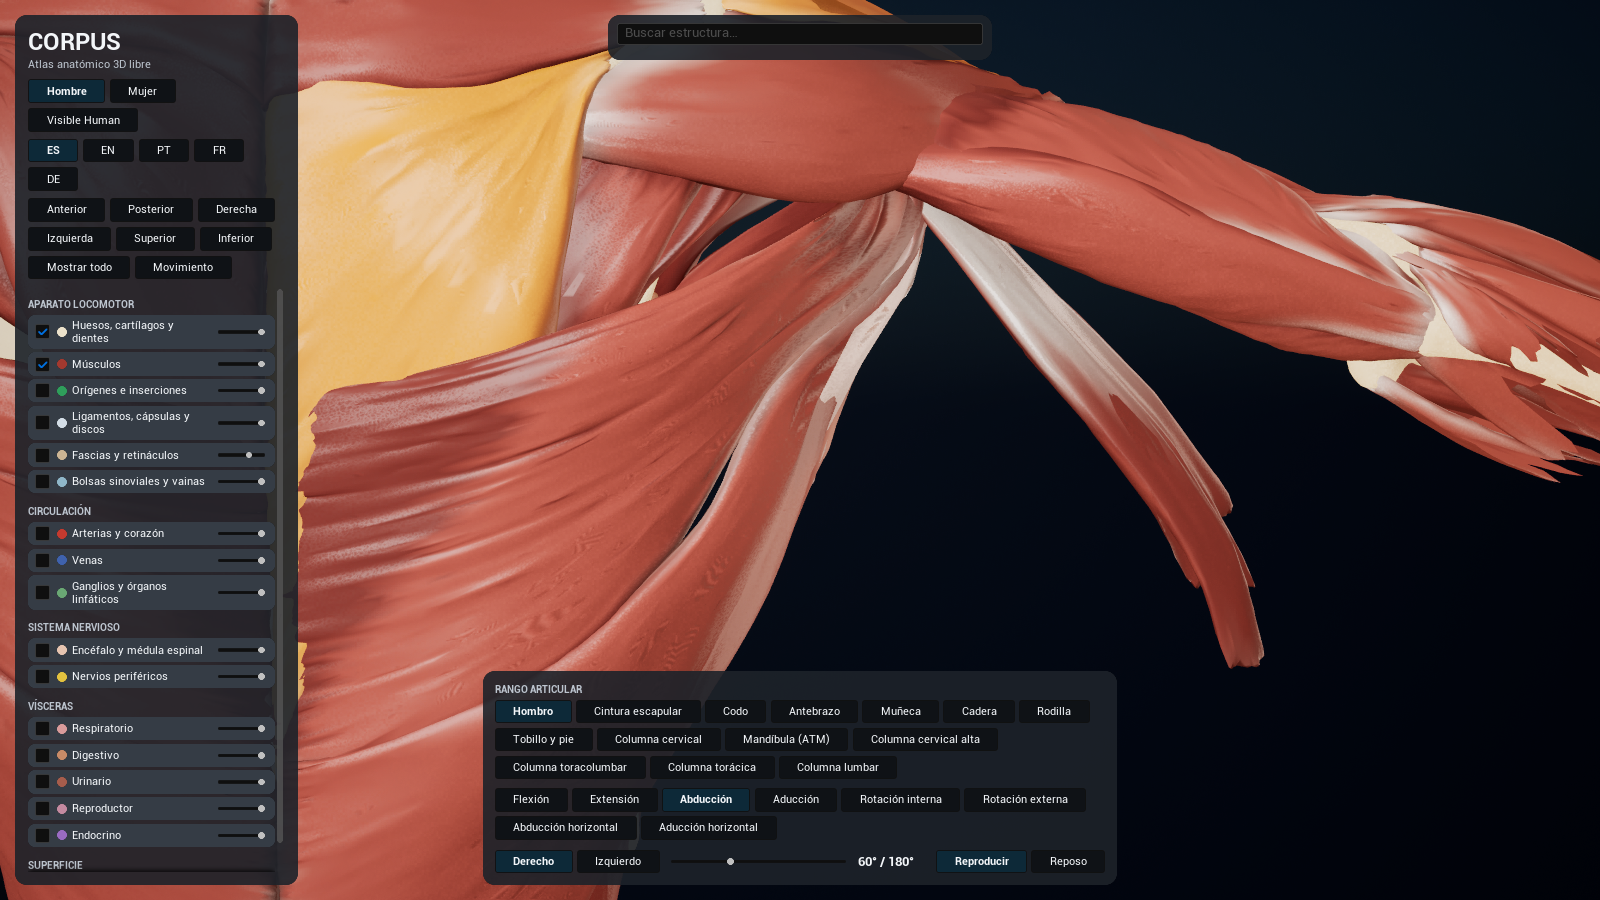
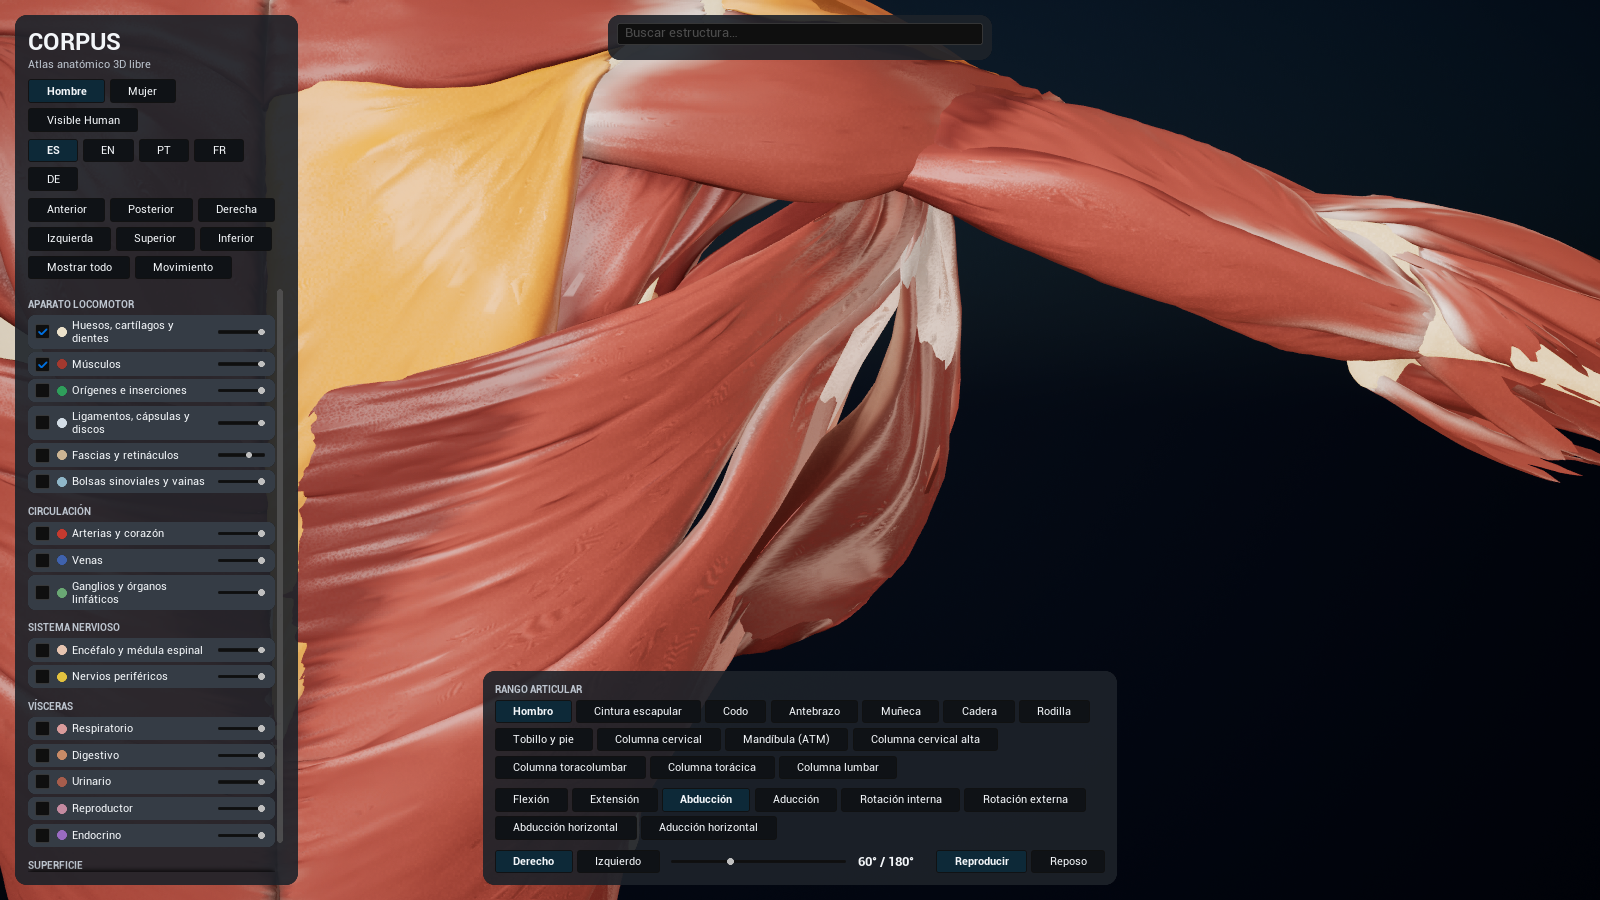
Unreal movimiento: pesos por fasciculo, escapula con el brazo colgando y visor en Blender
Cada musculo son varias islas: se ancla cada una por separado (desaparece el tendon suelto del dorsal).
Los movimientos de la cintura escapular ya no abren el brazo. postura.js, blender/posar.js y
blender/simular_musculo.py dan una imagen de cualquier postura en un segundo.

Changed region(s): [[0.4375, 0.2178, 0.8125, 0.7467]]

diff --git a/tools/unreal/postura.js b/tools/unreal/postura.js
@@ -1,0 +1,68 @@
+/* Corpus Atlas → Unreal: la cuenta del nodo «Postura» del material (HLSL_POSTURA de corpus_importar.py) en la CPU,
+   como módulo. La usan simular.js (medir pliegues) y blender/posar.js (dar a Blender huesos y músculos ya colocados).
+   Si se cambia el HLSL, hay que cambiar esto igual. */
+'use strict';
+const fs = require('fs'), path = require('path');
+const TX = require('./torax.js');
+const IMP = path.resolve(__dirname, '..', '..', 'unreal', 'CorpusAtlas', 'Importar');
+const M = JSON.parse(fs.readFileSync(path.join(IMP, 'datos', 'movimiento.json'), 'utf8'));
+const rig = JSON.parse(fs.readFileSync(path.join(IMP, 'datos', 'rig.json'), 'utf8'));
+const NA = M.articulaciones.length, arts = M.articulaciones.map(a => a.id), TC = M.torax;
+const cross = (a, c) => [a[1] * c[2] - a[2] * c[1], a[2] * c[0] - a[0] * c[2], a[0] * c[1] - a[1] * c[0]], dot = (a, c) => a[0] * c[0] + a[1] * c[1] + a[2] * c[2];
+const gira = (p, pv, e, an) => { const s = Math.sin(an), c = Math.cos(an), d = [p[0] - pv[0], p[1] - pv[1], p[2] - pv[2]], cr = cross(e, d), dt = dot(e, d); return [0, 1, 2].map(i => d[i] * c + cr[i] * s + e[i] * dt * (1 - c) + pv[i]); };
+const sat = x => Math.max(0, Math.min(1, x)), ss = (a, c, x) => { const t = sat((x - a) / (c - a)); return t * t * (3 - 2 * t); };
+
+const GLB = {};
+function capa(nombre) {
+  if (GLB[nombre]) return GLB[nombre];
+  const b = fs.readFileSync(path.join(IMP, nombre + '.glb')), lj = b.readUInt32LE(12), g = JSON.parse(b.slice(20, 20 + lj)), bin = b.slice(20 + lj + 8);
+  const acc = i => { const a = g.accessors[i], v = g.bufferViews[a.bufferView], nc = { SCALAR: 1, VEC2: 2, VEC3: 3, VEC4: 4 }[a.type], o = bin.byteOffset + (v.byteOffset || 0) + (a.byteOffset || 0);
+    if (a.componentType === 5126) return new Float32Array(bin.buffer.slice(o, o + a.count * nc * 4)); if (a.componentType === 5125) return new Uint32Array(bin.buffer.slice(o, o + a.count * 4)); return new Uint16Array(bin.buffer.slice(o, o + a.count * 2)); };
+  const porId = {}; for (const n of g.nodes) if (n.mesh !== undefined) porId[n.name] = n;
+  return GLB[nombre] = { g, acc, porId };
+}
+/* pieza: posiciones de reposo, índices, pesos por hueco y datos por pieza (los mismos que ACorpusCuerpo pone en los datos primitivos) */
+function pieza(nombreCapa, id) {
+  const C = capa(nombreCapa), nodo = C.porId[id]; if (!nodo) return null;
+  const cuerpo = nombreCapa.split('/')[0], pr = C.g.meshes[nodo.mesh].primitives[0];
+  const P = C.acc(pr.attributes.POSITION), I = C.acc(pr.indices), U = [0, 1, 2, 3].map(c => pr.attributes['TEXCOORD_' + c] !== undefined ? C.acc(pr.attributes['TEXCOORD_' + c]) : new Float32Array(P.length / 3 * 2));
+  const en = (nodo.extras || {}).en || '', lado = (nodo.extras || {}).lado || '';
+  return { id, en, lado, P, I, U, nv: P.length / 3, js: ((M.piezas[cuerpo] || {})[id] || []).concat([0, 0, 0, 0, 0, 0, 0, 0, 0]).slice(0, 9),
+    hug: ((M.abrazo || {})[cuerpo] || []).includes(id) ? (/^Latissimus/.test(en) ? 2 : 1) : 0, ins: ((M.insercion || {})[cuerpo] || {})[id] || null };
+}
+/* articulaciones de una postura de la tabla ROM */
+function articulaciones(rom, mi, lado, grados) {
+  const J = arts.map((_, i) => ({ e: [0, 0, 0], a: 0, t: [0, 0, 0], p: M.articulaciones[i].pivote }));
+  if (rom) { const mv = M.rom.find(r => r.id === rom).movs[+mi], F = mv[lado] || mv.R, x = Math.min(+grados, mv.max) / mv.paso, i0 = Math.min(Math.floor(x), F.length - 1), fr = F[Math.min(Math.round(x), F.length - 1)];
+    for (let k = 0; k < fr.length; k += 8) { const j = J[fr[k]]; j.e = [fr[k + 1], fr[k + 2], fr[k + 3]]; j.a = fr[k + 4]; j.t = [fr[k + 5], fr[k + 6], fr[k + 7]]; } }
+  return J;
+}
+/* un vértice: opciones {abrazo:false} o {cubrir:false} apagan esos pasos */
+function vertice(pz, J, g0, ws, op) {
+  op = op || {}; let gg = g0.slice(), hecho = false, wl = 0, ip = pz.ins ? pz.ins.slice() : null; const fibra = !!ip, Sd = g0[0] < 0 ? 'R' : 'L';
+  for (let k = 0; k < 9; k++) {
+    const jv = pz.js[k]; let code = Math.round(Math.abs(jv)); const tronco = jv === 0 || (code & 31) >= NA - 2;
+    if (!hecho && tronco) { hecho = true;
+      if (pz.hug > 0 && wl > 0.0005 && op.abrazo !== false) {
+        const k0 = TX.k(TC, g0), R1 = TX.radio(TC, gg), k1 = Math.hypot(gg[0], gg[2] - TC.zc) / R1, libre = sat((wl - 0.25) / 0.6), l4 = libre ** 4;
+        const kmax = k0 + (0.006 + libre * libre * 0.07 + libre * 0.03 + l4 * l4 * 1.5) / R1, kmin = k0 < 1 ? k0 : 1 + (k0 - 1) * 0.6;
+        const kt = Math.max(kmin, k1 > k0 ? k0 + (kmax - k0) * Math.tanh((k1 - k0) / (kmax - k0)) : k1), hy = (gg[1] - TC.y0) / TC.dy, val = sat(hy) * sat(TC.nh - 1 - hy) * sat(pz.hug), s = 1 + (kt / Math.max(k1, 1e-4) - 1) * val;
+        gg[0] *= s; gg[2] = TC.zc + (gg[2] - TC.zc) * s;
+        if (pz.hug > 1.5 && op.cubrir !== false) { const ja = J[arts.indexOf('acr_' + Sd)], jc = J[arts.indexOf('sc_' + Sd)]; let bb = rig['scapBot_' + Sd].slice(); bb = gira(bb, ja.p, ja.e, ja.a); bb = gira(bb, jc.p, jc.e, jc.a);
+          const kb = TX.k(TC, bb) + 0.004 / TX.radio(TC, bb), kg = TX.k(TC, gg), cerca = 1 - ss(0.04, 0.20, Math.hypot(gg[0] - bb[0], gg[1] - bb[1], gg[2] - bb[2])), s2 = (kg + cerca * Math.max(0, kb - 1.0)) / Math.max(kg, 1e-4);
+          gg[0] *= s2; gg[2] = TC.zc + (gg[2] - TC.zc) * s2; } } }
+    if (jv === 0) break;
+    const w = sat(ws[k]); if (k === 0 && !tronco) wl = w; const lin = jv < 0;
+    for (let t = 0; t < 3; t++) { const j = (code & 31) - 1; code >>= 5; if (j < 0) break; const o = J[j]; if (!o.a && !o.t.some(x => x)) continue;
+      if (fibra && lin) { const ri = gira(ip, o.p, o.e, o.a); if (w >= 0.0005) { const r = gira(gg, o.p, o.e, o.a), q = w * w; gg = gg.map((x, i) => { const tx = x + w * (ri[i] - ip[i]); return tx + (r[i] - tx) * q; }); } ip = ri; }
+      else if (w >= 0.0005) { const r = gira(gg, o.p, o.e, lin ? o.a : o.a * w); gg = lin ? gg.map((x, i) => x + (r[i] - x) * w) : r; }
+      if (w < 0.0005) continue; gg = gg.map((x, i) => x + o.t[i] * w); }
+  }
+  return gg;
+}
+function deformar(pz, J, op) {
+  const D = new Float32Array(pz.nv * 3);
+  for (let i = 0; i < pz.nv; i++) { const ws = [pz.U[0][i * 2], pz.U[0][i * 2 + 1], pz.U[1][i * 2], pz.U[1][i * 2 + 1], pz.U[2][i * 2], pz.U[2][i * 2 + 1], pz.U[3][i * 2], pz.U[3][i * 2 + 1], 0]; D.set(vertice(pz, J, [pz.P[i * 3], pz.P[i * 3 + 1], pz.P[i * 3 + 2]], ws, op), i * 3); }
+  return D;
+}
+module.exports = { IMP, M, rig, TC, TX, arts, pieza, capa, articulaciones, deformar, gira };

diff --git a/tools/unreal/blender/posar.js b/tools/unreal/blender/posar.js
@@ -1,0 +1,48 @@
+#!/usr/bin/env node
+/* Corpus Atlas → Blender: prepara una simulación de músculo.
+   Uso: node tools/unreal/blender/posar.js <id del músculo> <rom> <nº mov> <R|L> <grados> [paso=10] [salida]
+   Ej.: node tools/unreal/blender/posar.js n1610 hombro 2 R 150
+   Escribe en unreal/CorpusAtlas/Saved/sim/<id>_<rom><mov><lado>/ :
+     info.json            pasos (grados), nº de vértices, piezas del colisionador
+     musculo_idx.u32      triángulos del músculo          musculo_w.f32   fracción de fibra (0 origen … 1 inserción)
+     musculo_<k>.f32      el músculo como lo deja el material de Unreal en el paso k (guía y posición de los anclajes)
+     colision_idx.u32     triángulos de huesos y músculos profundos fundidos en una malla
+     colision_<k>.f32     esa malla en el paso k
+   Todo en glTF (metros, Y arriba), como los GLB de Importar/. */
+'use strict';
+const fs = require('fs'), path = require('path');
+const PO = require('../postura.js');
+const [id, rom, mi, lado, grados, pasoArg, salArg] = process.argv.slice(2);
+const paso = +pasoArg || 10, LD = lado === 'R' ? 'derecho' : 'izquierdo';
+const dir = salArg || path.join(PO.IMP, '..', 'Saved', 'sim', `${id.includes(',') ? 'grupo' : id}_${rom}${mi}${lado}`);
+fs.mkdirSync(dir, { recursive: true });
+/* varios músculos separados por comas se funden en una malla (para verlos juntos; la simulación es de uno) */
+const ids = id.split(','), partes = ids.map(i => PO.pieza('hombre/muscular', i)); if (partes.some(p => !p)) { console.error('no está ' + id); process.exit(1); }
+const mus = partes[0];
+
+/* colisionador: huesos del tórax y de la cintura escapular del lado, y los músculos profundos sobre los que resbala */
+const HUESO = /\brib\b|^Costal cartilage|sternum|Xiphoid|^Vertebra [TL]\d+|^Scapula$|^Humerus$|^Clavicle$|^Hip bone$|^Sacrum$/i;
+const PROFUNDO = /^(Serratus anterior muscle|External intercostal muscles|Internal intercostal muscles|Teres major muscle|Teres minor muscle|Infraspinatus muscle|Subscapularis muscle|Iliocostalis thoracis muscle|Longissimus thoracis muscle|Serratus posterior inferior muscle|External abdominal oblique muscle)$/;
+const piezas = [];
+for (const [capa, re] of [['hombre/oseo', HUESO], ['hombre/muscular', PROFUNDO]]) {
+  const C = PO.capa(capa);
+  for (const nd of C.g.nodes) { if (nd.mesh === undefined || ids.includes(nd.name)) continue; const ex = nd.extras || {};
+    if (!re.test(ex.en || '')) continue; if (ex.lado && ex.lado !== LD) continue; piezas.push(PO.pieza(capa, nd.name)); }
+}
+let nvc = 0; const idx = [];
+for (const p of piezas) { for (let i = 0; i < p.I.length; i++) idx.push(p.I[i] + nvc); nvc += p.nv; }
+fs.writeFileSync(path.join(dir, 'colision_idx.u32'), Buffer.from(Uint32Array.from(idx).buffer));
+const nvm = partes.reduce((a, p) => a + p.nv, 0), im = []; { let o = 0; for (const p of partes) { for (let i = 0; i < p.I.length; i++) im.push(p.I[i] + o); o += p.nv; } }
+fs.writeFileSync(path.join(dir, 'musculo_idx.u32'), Buffer.from(Uint32Array.from(im).buffer));
+const w = new Float32Array(nvm); { let o = 0; for (const p of partes) { for (let i = 0; i < p.nv; i++) w[o + i] = p.U[0][i * 2]; o += p.nv; } }
+fs.writeFileSync(path.join(dir, 'musculo_w.f32'), Buffer.from(w.buffer));
+
+const pasos = []; for (let g = 0; g < +grados; g += paso) pasos.push(g); pasos.push(+grados);
+pasos.forEach((g, k) => {
+  const J = PO.articulaciones(rom, mi, lado, g);
+  { const a = new Float32Array(nvm * 3); let o = 0; for (const p of partes) { a.set(PO.deformar(p, J), o); o += p.nv * 3; } fs.writeFileSync(path.join(dir, `musculo_${k}.f32`), Buffer.from(a.buffer)); }
+  const col = new Float32Array(nvc * 3); let o = 0; for (const p of piezas) { col.set(PO.deformar(p, J), o); o += p.nv * 3; }
+  fs.writeFileSync(path.join(dir, `colision_${k}.f32`), Buffer.from(col.buffer));
+});
+fs.writeFileSync(path.join(dir, 'info.json'), JSON.stringify({ id, en: mus.en, rom, mov: +mi, lado, pasos, nv: mus.nv, nvc, colision: piezas.map(p => p.id + ' ' + p.en) }, null, 1));
+console.log('%s (%s): %d pasos, músculo %d vértices, colisión %d piezas y %d vértices → %s', id, mus.en, pasos.length, mus.nv, piezas.length, nvc, dir);

diff --git a/tools/unreal/movimiento.js b/tools/unreal/movimiento.js
@@ -142,6 +142,14 @@ const PREPARA = `(async()=>{
           if(d<TD[2]){fijo[q]=1;continue;}
           const origen=LAT?(px<0.022||py<1.0||d>0.5):CLA?(an==='clav_'+Sd):TER?(an==='scap_'+Sd&&d>0.05):(px<0.035||py<1.12);
           if(origen){fijo[q]=0;n0++;}}
+        /* La malla del músculo son varios fascículos sueltos (islas). Un fascículo sin anclaje de origen giraba entero con
+           el húmero (el «tendón suelto» del dorsal); uno sin anclaje de inserción se quedaba atrás. A cada isla que le falta
+           un extremo se le fija, en su punta más lejana o más cercana a la inserción, el peso por distancia de sus vecinas. */
+        {const isla=new Int32Array(G.nu).fill(-1);let ni=0;for(let s=0;s<G.nu;s++){if(isla[s]>=0)continue;const pila=[s];isla[s]=ni;while(pila.length){const q=pila.pop(),l=G.NB[q];for(let t=0;t<l.length;t++)if(isla[l[t]]<0){isla[l[t]]=ni;pila.push(l[t]);}}ni++;}
+          const dmn=new Float32Array(ni).fill(1e9),dmx=new Float32Array(ni),h0=new Uint8Array(ni),h1=new Uint8Array(ni),dq=new Float32Array(G.nu);
+          for(let q=0;q<G.nu;q++){const d=dq[q]=dI(G.rep[q]),c=isla[q];if(d<dmn[c])dmn[c]=d;if(d>dmx[c])dmx[c]=d;if(fijo[q]===0)h0[c]=1;else if(fijo[q]===1)h1[c]=1;}
+          for(let q=0;q<G.nu;q++){const c=isla[q];if(fijo[q]>=0)continue;if(!h1[c]&&dq[q]<=dmn[c]+0.015){fijo[q]=x[q];}else if(!h0[c]&&dq[q]>=dmx[c]-0.02){fijo[q]=x[q];n0++;}}
+          window.__islas=(window.__islas||'')+' '+en.slice(0,14)+':'+ni;}
         if(n0>3){laplace(G,fijo,x);for(let v=0;v<n;v++)Wd[v]=x[G.uid[v]];}}
       L.forEach((k,q)=>{const [nd,sd]=k.split('_');if(sd===Sd&&TD[1].test(nd))Ws[q]=[Wd,true];else if(/^(elbow|fore|wrist|hip|knee)$/.test(nd)||(sd&&sd!==Sd&&/^(shoulder|acr|sc)$/.test(nd)))Ws[q]=[null,false];});}
     /* Músculos tendidos entre dos huesos de la cintura escapular (mejora sobre la web, donde el trapecio, los romboides o
@@ -274,7 +282,18 @@ const PREPARA = `(async()=>{
         oA[1] = f5(a2[0]); oA[2] = f5(a2[1]); oA[3] = f5(a2[2]); oA[4] = f5(a2[3]);
         if (oH) { const qH = qAA(oH.slice(1, 4), oH[4]), h2 = aAA(qMul(qInv(qA2), qMul(qA, qH))); oH[1] = f5(h2[0]); oH[2] = f5(h2[1]); oH[3] = f5(h2[2]); oH[4] = f5(h2[3]); }
         return ops.flat(); }); }
-    console.log('Escápula sobre las costillas: %d posturas corregidas, giro añadido máximo %s°', nfix, (amax * 57.2958).toFixed(1));
+    /* Movimientos propios de la cintura escapular (encoger, deprimir, protraer, retraer): en la web el brazo entero gira
+       con la clavícula (al elevar 40° se abría 40°). En realidad el húmero sigue colgando: la glenohumeral compensa. */
+    const esc = rom.find(r => r.id === 'escapula'); let ncomp = 0;
+    if (esc) for (const M of esc.movs) for (const S of ['R', 'L']) { if (!M[S]) continue;
+      const iA = R.L.indexOf('acr_' + S), iC = R.L.indexOf('sc_' + S), iH = R.L.indexOf('shoulder_' + S);
+      M[S] = M[S].map(fr => { const ops = []; for (let k = 0; k < fr.length; k += 8) ops.push(fr.slice(k, k + 8));
+        const oA = ops.find(o => o[0] === iA), oC = ops.find(o => o[0] === iC); if (!oA && !oC) return fr;
+        const qA = oA ? qAA(oA.slice(1, 4), oA[4]) : [0, 0, 0, 1], qC = oC ? qAA(oC.slice(1, 4), oC[4]) : [0, 0, 0, 1];
+        const h = aAA(qInv(qMul(qC, qA))), f5 = x => Math.round(x * 1e5) / 1e5, sin = ops.filter(o => o[0] !== iH);
+        sin.push([iH, f5(h[0]), f5(h[1]), f5(h[2]), f5(h[3]), 0, 0, 0]); ncomp++;
+        return sin.sort((a, b) => a[0] - b[0]).flat(); }); }
+    console.log('Escápula sobre las costillas: %d posturas corregidas, giro añadido máximo %s° · cintura escapular con el brazo colgando: %d posturas', nfix, (amax * 57.2958).toFixed(1), ncomp);
   }
   const abrazo = {};
   for (const c of CUERPOS) { const g = leeGLB(path.join(IMP, c, 'muscular.glb'));

diff --git a/tools/unreal/blender/simular_musculo.py b/tools/unreal/blender/simular_musculo.py
@@ -1,0 +1,174 @@
+# -*- coding: utf-8 -*-
+"""Corpus Atlas → Blender: simula un músculo como tejido elástico que sigue a sus huesos sin atravesarlos.
+
+    blender -b --python tools/unreal/blender/simular_musculo.py -- <carpeta de posar.js> [opciones clave=valor]
+
+El músculo arranca en reposo. Sus anclajes (fracción de fibra ≤ 0,03 = origen, ≥ 0,95 = tendón de inserción) siguen la
+posición que les da el material de Unreal en cada paso; el resto lo resuelve el solver de tela de Blender: longitud de
+las aristas (elasticidad), amortiguación (viscosidad) y colisión contra huesos y músculos profundos, que también se
+mueven paso a paso. Sin gravedad. Salida: resultado_<k>.f32 (posiciones por paso, glTF) y una imagen por vista.
+Opciones: cuadros=6 (por paso) reposo=25 (cuadros finales) tension=20 flexion=2 presion=0 calidad=8 margen=0.003
+"""
+import json
+import os
+import sys
+import time
+
+import bpy
+import numpy as np
+from mathutils import Vector
+
+args = sys.argv[sys.argv.index("--") + 1:]
+DIR = args[0]
+OP = dict(cuadros=6, reposo=25, tension=20.0, flexion=2.0, presion=0.0, calidad=8, margen=0.003, masa=0.3)
+for a in [x for x in args[1:] if "=" in x]:
+    k, v = a.split("=")
+    OP[k] = type(OP[k])(float(v)) if k in OP else v
+info = json.load(open(os.path.join(DIR, "info.json"), encoding="utf-8"))
+NP = len(info["pasos"])
+f32 = lambda n: np.fromfile(os.path.join(DIR, n), dtype=np.float32)
+u32 = lambda n: np.fromfile(os.path.join(DIR, n), dtype=np.uint32)
+mus = [f32("musculo_%d.f32" % k) for k in range(NP)]
+col = [f32("colision_%d.f32" % k) for k in range(NP)]
+w = f32("musculo_w.f32")
+
+bpy.ops.wm.read_factory_settings(use_empty=True)
+esc = bpy.context.scene
+esc.use_gravity = False
+
+
+def malla(nombre, pos, idx):
+    me = bpy.data.meshes.new(nombre)
+    me.from_pydata(pos.reshape(-1, 3).tolist(), [], idx.reshape(-1, 3).tolist())
+    me.update()
+    ob = bpy.data.objects.new(nombre, me)
+    esc.collection.objects.link(ob)
+    return ob
+
+
+t0 = time.time()
+om = malla("musculo", mus[0], u32("musculo_idx.u32"))
+oc = malla("colision", col[0], u32("colision_idx.u32"))
+for p in om.data.polygons:
+    p.use_smooth = True
+
+# anclajes: origen y tendón de inserción
+vg = om.vertex_groups.new(name="ancla")
+fijos = np.where((w <= 0.03) | (w >= 0.95))[0]
+vg.add(fijos.tolist(), 1.0, "REPLACE")
+
+mc = oc.modifiers.new("colision", "COLLISION")
+oc.collision.thickness_outer = OP["margen"]
+oc.collision.thickness_inner = 0.01
+oc.collision.cloth_friction = 2.0
+oc.collision.damping = 0.5
+
+mt = om.modifiers.new("tela", "CLOTH")
+c = mt.settings
+c.quality = int(OP["calidad"])
+c.mass = OP["masa"]
+c.tension_stiffness = c.compression_stiffness = c.shear_stiffness = OP["tension"]
+c.bending_stiffness = OP["flexion"]
+c.tension_damping = c.compression_damping = c.shear_damping = 8.0      # viscosidad: el tejido no rebota
+c.bending_damping = 1.0
+c.air_damping = 3.0
+c.vertex_group_mass = "ancla"
+c.pin_stiffness = 1.0
+c.effector_weights.gravity = 0.0
+if OP["presion"] > 0:
+    c.use_pressure = True
+    c.uniform_pressure_force = OP["presion"]
+    c.use_pressure_volume = True
+cc = mt.collision_settings
+cc.use_collision = True
+cc.distance_min = OP["margen"]
+cc.collision_quality = 4
+cc.use_self_collision = False
+
+S = int(OP["cuadros"])
+total = (NP - 1) * S + int(OP["reposo"])
+esc.frame_start = 1
+esc.frame_end = total + 1
+mt.point_cache.frame_start = 1
+mt.point_cache.frame_end = total + 1
+
+
+def claves(ob, pasos):
+    """Una clave de forma por paso, animada en triángulo: entre dos pasos la malla va en línea recta de uno a otro.
+    (Cambiar los vértices a mano en cada cuadro no vale: la tela no recoge el cambio y los anclajes no se mueven.)"""
+    ob.shape_key_add(name="Basis")
+    for k in range(1, len(pasos)):
+        sk = ob.shape_key_add(name="p%d" % k)
+        sk.data.foreach_set("co", pasos[k])
+        for cuadro, valor in (((k - 1) * S + 1, 0.0), (k * S + 1, 1.0), ((k + 1) * S + 1, 0.0 if k < len(pasos) - 1 else 1.0)):
+            sk.value = valor
+            sk.keyframe_insert("value", frame=cuadro)
+    ad = ob.data.shape_keys.animation_data
+    if ad and ad.action:
+        for fc in getattr(ad.action, "fcurves", []):
+            for kp in fc.keyframe_points:
+                kp.interpolation = "LINEAR"
+
+
+def leer():
+    dg = bpy.context.evaluated_depsgraph_get()
+    ev = om.evaluated_get(dg)
+    out = np.empty(len(ev.data.vertices) * 3, dtype=np.float32)
+    ev.data.vertices.foreach_get("co", out)
+    return out
+
+
+bpy.context.preferences.edit.keyframe_new_interpolation_type = "LINEAR"
+claves(om, mus)
+claves(oc, col)
+res = {0: mus[0].copy()}
+SIN = "sinsim" in args
+for f in ([] if SIN else range(1, total + 2)):
+    esc.frame_set(f)
+    k = (f - 1) // S
+    if (f - 1) % S == 0 and 0 < k < NP - 1:
+        res[k] = leer()
+res[NP - 1] = mus[NP - 1].copy() if SIN else leer()
+for k, a in res.items():
+    a.tofile(os.path.join(DIR, "resultado_%d.f32" % k))
+d = (res[NP - 1] - mus[NP - 1]).reshape(-1, 3)
+print("SIM %s %s: %d cuadros en %.0f s · anclajes %d de %d · corrección respecto al material: media %.1f mm, máxima %.1f mm"
+      % (info["id"], info["en"], total, time.time() - t0, len(fijos), len(w), np.linalg.norm(d, axis=1).mean() * 1000, np.linalg.norm(d, axis=1).max() * 1000))
+
+# imágenes: el resultado y, al lado, lo que hace hoy el material (para comparar)
+try:
+    esc.render.engine = "BLENDER_WORKBENCH"
+    esc.render.resolution_x, esc.render.resolution_y = 1100, 1100
+    esc.display.shading.light = "STUDIO"
+    esc.display.shading.color_type = "OBJECT"
+    esc.display.shading.show_cavity = True
+    om.color = (0.75, 0.30, 0.25, 1)
+    oc.color = (0.85, 0.82, 0.72, 1)
+    cam = bpy.data.objects.new("cam", bpy.data.cameras.new("cam"))
+    esc.collection.objects.link(cam)
+    esc.camera = cam
+    cam.data.lens = 70
+    centro = Vector(np.asarray(res[NP - 1]).reshape(-1, 3).mean(axis=0).tolist())
+    lado = -1 if centro.x < 0 else 1
+    vistas = {"post": Vector((0.25 * lado, 0.1, -1.7)), "lat": Vector((1.7 * lado, 0.1, -0.2)), "ant": Vector((0.3 * lado, 0.1, 1.7))}
+    for nombre, pos_mus in (("sim", res[NP - 1]), ("material", mus[NP - 1])):
+        om.modifiers["tela"].show_viewport = om.modifiers["tela"].show_render = False
+        if om.data.shape_keys:
+            om.shape_key_clear()
+            oc.shape_key_clear()
+            oc.data.vertices.foreach_set("co", col[NP - 1])
+            oc.data.update()
+        om.data.vertices.foreach_set("co", pos_mus)
+        om.data.update()
+        for v, off in vistas.items():
+            cam.location = centro + off
+            ade = (centro - cam.location).normalized()          # mirar al centro con la Y del glTF hacia arriba
+            der = ade.cross(Vector((0, 1, 0))).normalized()
+            arr = der.cross(ade)
+            from mathutils import Matrix
+            cam.rotation_euler = Matrix((der, arr, -ade)).transposed().to_euler()
+            esc.render.filepath = os.path.join(DIR, "%s_%s.png" % (nombre, v))
+            bpy.ops.render.render(write_still=True)
+    print("SIM imágenes en", DIR)
+except Exception as e:  # noqa
+    print("SIM sin imágenes:", e)

diff --git a/unreal/LEEME.md b/unreal/LEEME.md
@@ -153,6 +153,21 @@ Reimportar las mallas (`importar_mallas`) tarda 1 h 45 min; `_aplanar` sustituye
   - Paso de pruebas `solo id1,id2…` (`ACorpusCuerpo::VerSolo`) para ver un grupo de piezas.
   - El editor a veces se queda colgado al cerrarse tras `-ExecutePythonScript`: esperar a `CORPUS_RUN_OK` en el registro
     y cerrar el proceso.
+- **Blender como visor y banco de pruebas (cuarta pasada):** `tools/unreal/postura.js` es la cuenta del material como
+  módulo; `tools/unreal/blender/posar.js <ids> <rom> <mov> <lado> <grados>` deja huesos y músculos ya colocados y
+  `blender -b --python tools/unreal/blender/simular_musculo.py -- <carpeta> sinsim` los dibuja en 1 s (frente a 6 min de
+  una captura de Unreal). Blender 5.2 está en `X:\software\Blender 5.2`.
+  - Sin `sinsim` simula el músculo como tela con colisión: **no sirve tal cual** (14 min por postura y el dorsal se hace
+    jirones, porque en reposo ya roza los músculos profundos). Haría falta una escena preparada (solo huesos, malla
+    limpia); queda como vía abierta junto con Chaos Flesh + ML Deformer (instalados, pero sin Nanite) y el modelo
+    OpenSim de Seth 2019 (CC BY 4.0, simtk.org/projects/thoracoscapular) como guía de trayectorias.
+  - Lo que sí destapó: **la malla de cada músculo son varios fascículos sueltos (islas)**. Una isla sin anclaje de origen
+    giraba entera con el húmero (el «tendón suelto» del dorsal a 150°). `movimiento.js` fija ahora, isla por isla, el
+    extremo que le falte.
+  - **Cintura escapular con el brazo colgando:** en la web, al elevar la escápula 40° el brazo se abría 40°; ahora la
+    glenohumeral compensa (32 posturas).
+  - Pendiente visto en el visor: deltoides algo retorcido al encoger el hombro, bíceps cruzado en la rotación externa
+    a 90°, solapa en el borde del dorsal en la extensión a 60°.
 - Referencias del ritmo escapulohumeral: Braman et al. 2009 (0,43° de rotación superior por grado de elevación, relación
   2,3:1) y Ludewig et al. 2009 (báscula posterior ≈ 19°, rotación posterior de la clavícula ≈ 31°); la tabla `ST_UR` de la
   web ya los sigue en los huesos.
